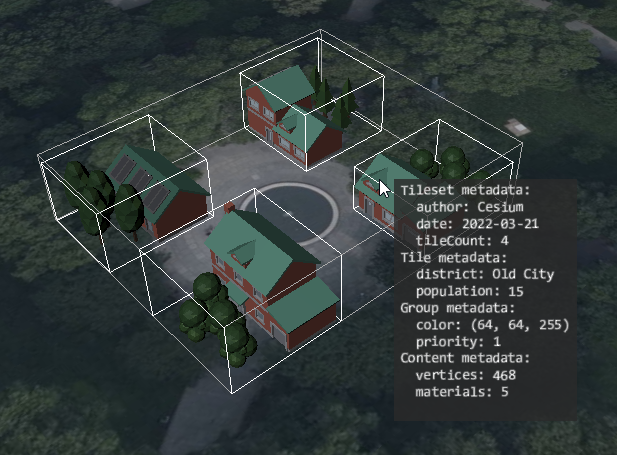
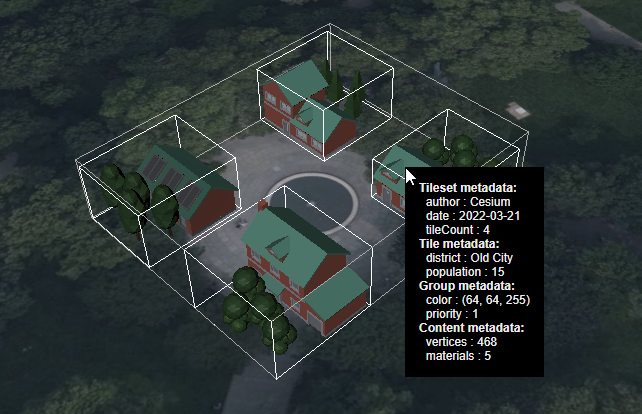
Updated MetadataGranularities sandcastle

diff --git a/1.1/MetadataGranularities/README.md b/1.1/MetadataGranularities/README.md
@@ -23,164 +23,75 @@ tileset.modelMatrix = Cesium.Transforms.eastNorthUpToFixedFrame(
   Cesium.Cartesian3.fromDegrees(-75.152325, 39.94704, 0.0)
 );
 
-// Create the label that will display metadata information
-const labelEntity = viewer.entities.add({
-  label: {
-    showBackground: true,
-    font: "14px monospace",
-    horizontalOrigin: Cesium.HorizontalOrigin.LEFT,
-    verticalOrigin: Cesium.VerticalOrigin.TOP,
-    pixelOffset: new Cesium.Cartesian2(15, 0),
-    // Workaround to always render label on top:
-    disableDepthTestDistance: Number.POSITIVE_INFINITY,
-  },
-});
+// Create an HTML element that will serve as the
+// tooltip that displays the metadata information
+function createTooltip() {
+  const tooltip = document.createElement("div");
+  viewer.container.appendChild(tooltip);
+  tooltip.style.backgroundColor = "black";
+  tooltip.style.position = "absolute";
+  tooltip.style.left = "0";
+  tooltip.style.top = "0";
+  tooltip.style.padding = "14px";
+  tooltip.style["pointer-events"] = "none";
+  tooltip.style["block-size"] = "fit-content";
+  return tooltip;
+}
+const tooltip = createTooltip();
 
-// Adds metadata information to the label, with
-// the given title indicating which granularity
-// of metadata this is. The given metadata object
-// can be a TilesetMetadata, TileMetadata,
-// GroupMetadata, or ContentMetadata.
-const addMetadataToLabel = function (title, metadata) {
+// Show the given HTML content in the tooltip
+// at the given screen position
+function showTooltip(screenX, screenY, htmlContent) {
+  tooltip.style.display = "block";
+  tooltip.style.left = `${screenX}px`;
+  tooltip.style.top = `${screenY}px`;
+  tooltip.innerHTML = htmlContent;
+}
+
+// Create an HTML string that contains information
+// about the given metadata, under the given title
+function createMetadataHtml(title, metadata) {
   if (!Cesium.defined(metadata)) {
-    labelEntity.label.text += `(No ${title})\n`;
-    return;
+    return `(No ${title})<br>`;
   }
   const propertyKeys = metadata.getPropertyIds();
   if (!Cesium.defined(propertyKeys)) {
-    labelEntity.label.text += `(No properties for ${title})\n`;
+    return `(No properties for ${title})<br>`;
   }
-  labelEntity.label.text += `${title}:\n`;
-  for (var i = 0; i < propertyKeys.length; i++) {
+  var html = `<b>${title}:</b><br>`;
+  for (let i = 0; i < propertyKeys.length; i++) {
     const propertyKey = propertyKeys[i];
     const propertyValue = metadata.getProperty(propertyKey);
-    labelEntity.label.text += `  ${propertyKey} : ${propertyValue}\n`;
+    html += `&nbsp;&nbsp;${propertyKey} : ${propertyValue}<br>`;
   }
-};
-
-// (NOTE: The way how metadata is obtained may be refactored,
-// see https://github.com/CesiumGS/cesium/issues/10015 )
-
-// Given an object that was obtained via Scene#pick, examine it
-// to see whether it contains tile metadata.
-// If the object contains TileMetadata, then this metadata
-// is returned.
-// Otherwise, 'undefined' is returned.
-const obtainTileMetadata = function (picked) {
-  if (!Cesium.defined(picked)) {
-    return undefined;
-  }
-  if (!Cesium.defined(picked.content)) {
-    return undefined;
-  }
-  if (!Cesium.defined(picked.content.tile)) {
-    return undefined;
-  }
-  if (!Cesium.defined(picked.content.tile.metadata)) {
-    return undefined;
-  }
-  const metadata = picked.content.tile.metadata;
-  const isTileMetadata = metadata instanceof Cesium.TileMetadata;
-  if (!isTileMetadata) {
-    return undefined;
-  }
-  return metadata;
-};
-
-// Given an object that was obtained via Scene#pick, examine it
-// to see whether it contains tileset metadata.
-// If the object contains TilesetMetadata, then this metadata
-// is returned.
-// Otherwise, 'undefined' is returned.
-const obtainTilesetMetadata = function (picked) {
-  if (!Cesium.defined(picked)) {
-    return undefined;
-  }
-  if (!Cesium.defined(picked.content)) {
-    return undefined;
-  }
-  if (!Cesium.defined(picked.content.tileset)) {
-    return undefined;
-  }
-  if (!Cesium.defined(picked.content.tileset.metadata)) {
-    return undefined;
-  }
-  const metadata = picked.content.tileset.metadata.tileset;
-  const isTilesetMetadata = metadata instanceof Cesium.TilesetMetadata;
-  if (!isTilesetMetadata) {
-    return undefined;
-  }
-  return metadata;
-};
-
-// Given an object that was obtained via Scene#pick, examine it
-// to see whether it contains group metadata.
-// If the object contains GroupMetadata, then this metadata
-// is returned.
-// Otherwise, 'undefined' is returned.
-const obtainGroupMetadata = function (picked) {
-  if (!Cesium.defined(picked)) {
-    return undefined;
-  }
-  if (!Cesium.defined(picked.content)) {
-    return undefined;
-  }
-  if (!Cesium.defined(picked.content.groupMetadata)) {
-    return undefined;
-  }
-  const metadata = picked.content.groupMetadata;
-  const isGroupMetadata = metadata instanceof Cesium.GroupMetadata;
-  if (!isGroupMetadata) {
-    return undefined;
-  }
-  return metadata;
-};
-
-// Given an object that was obtained via Scene#pick, examine it
-// to see whether it contains content metadata.
-// If the object contains ContentMetadata, then this metadata
-// is returned.
-// Otherwise, 'undefined' is returned.
-const obtainContentMetadata = function (picked) {
-  if (!Cesium.defined(picked)) {
-    return undefined;
-  }
-  if (!Cesium.defined(picked.content)) {
-    return undefined;
-  }
-  if (!Cesium.defined(picked.content.metadata)) {
-    return undefined;
-  }
-  const metadata = picked.content.metadata;
-  const isContentMetadata = metadata instanceof Cesium.ContentMetadata;
-  if (!isContentMetadata) {
-    return undefined;
-  }
-  return metadata;
-};
+  return html;
+}
 
 // Install the handler that will check the element that is
 // under the mouse cursor when the mouse is moved, and
 // add any metadata that it contains to the label.
 const handler = new Cesium.ScreenSpaceEventHandler(viewer.scene.canvas);
 handler.setInputAction(function (movement) {
-  labelEntity.label.text = "";
+  var tooltipText = "";
   const picked = viewer.scene.pick(movement.endPosition);
 
-  const tilesetMetadata = obtainTilesetMetadata(picked);
-  addMetadataToLabel("Tileset metadata", tilesetMetadata);
+  const tilesetMetadata = picked?.content?.tileset?.metadata?.tileset;
+  tooltipText += createMetadataHtml("Tileset metadata", tilesetMetadata);
 
-  const tileMetadata = obtainTileMetadata(picked);
-  addMetadataToLabel("Tile metadata", tileMetadata);
+  const tileMetadata = picked?.content?.tile?.metadata;
+  tooltipText += createMetadataHtml("Tile metadata", tileMetadata);
 
-  const groupMetadata = obtainGroupMetadata(picked);
-  addMetadataToLabel("Group metadata", groupMetadata);
+  const groupMetadata = picked?.content?.groupMetadata;
+  tooltipText += createMetadataHtml("Group metadata", groupMetadata);
 
-  const contentMetadata = obtainContentMetadata(picked);
-  addMetadataToLabel("Content metadata", contentMetadata);
+  const contentMetadata = picked?.content?.metadata;  
+  tooltipText += createMetadataHtml("Content metadata", contentMetadata);
 
-  const cartesian = viewer.scene.pickPosition(movement.endPosition);
-  labelEntity.position = cartesian;
+  const screenX = movement.endPosition.x;
+  const screenY = movement.endPosition.y;
+  showTooltip(screenX, screenY, tooltipText);
+  
+
 }, Cesium.ScreenSpaceEventType.MOUSE_MOVE);
 
 // Zoom to the tileset, with a small offset so that it
